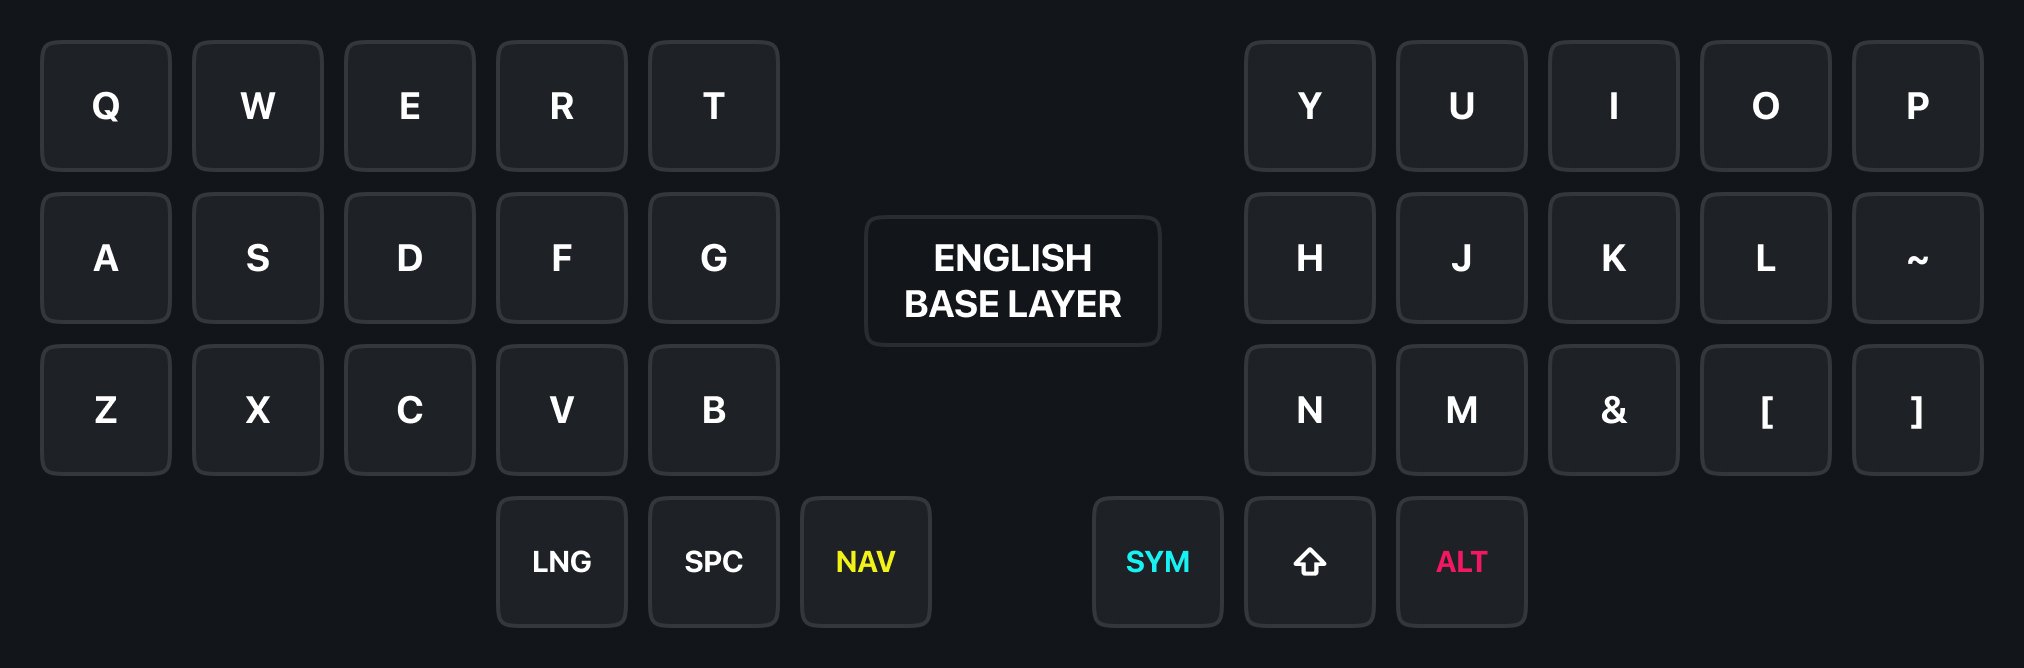
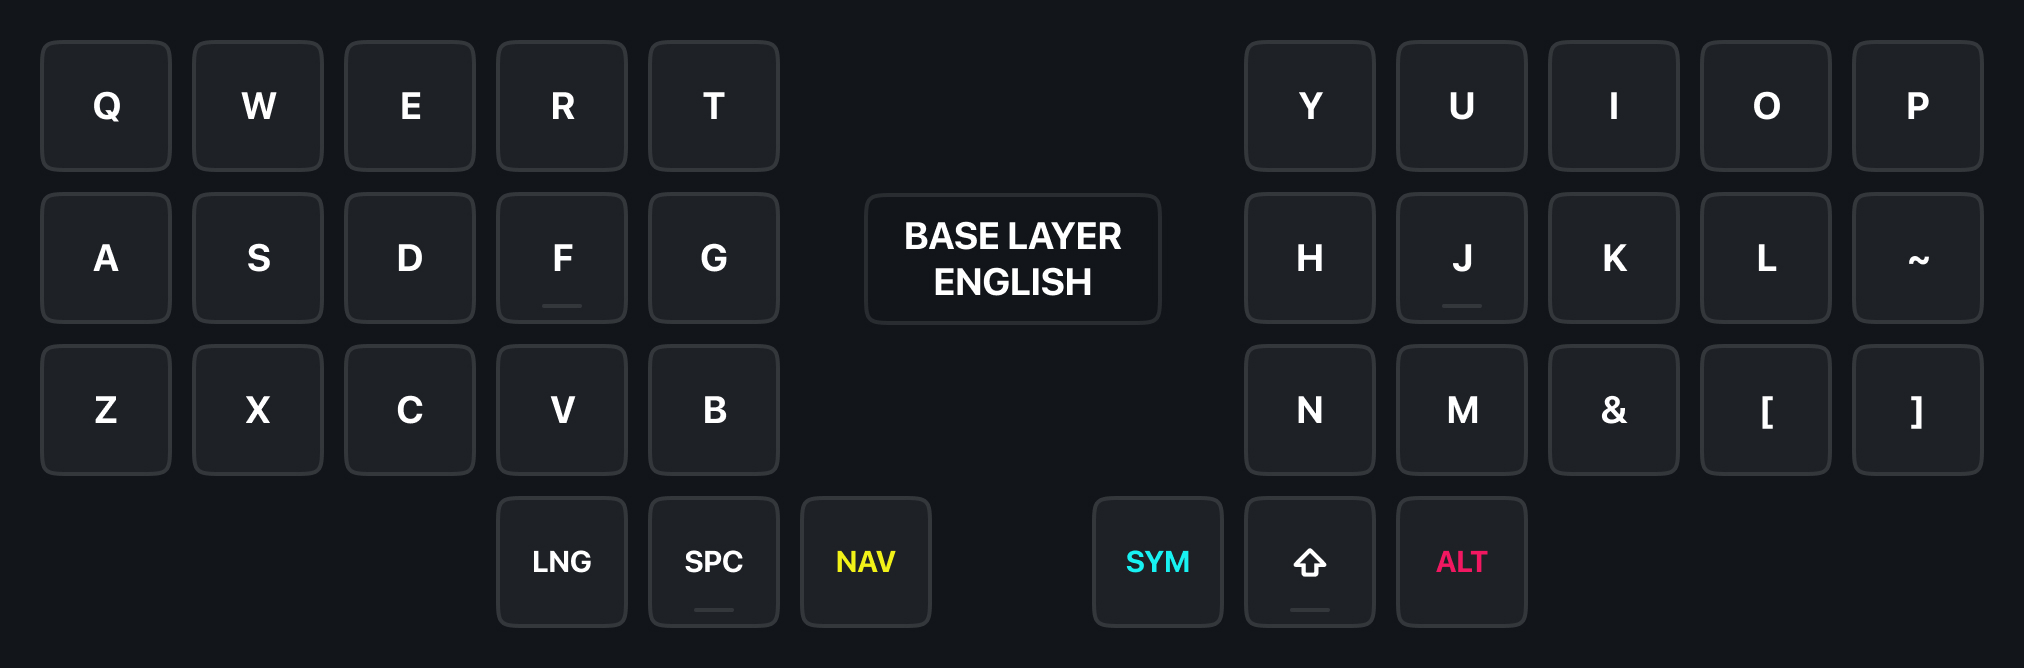
add layer desctiptions

diff --git a/README_RU.md b/README_RU.md
@@ -6,12 +6,32 @@
 
 ![wellum-layer-base-russian](./images/layers/wellum-base-layer-russian.jpg)
 
+## Содержание
+
+- [О прошивке](#о-раскладке)
+- [Термины](#термины)
+- [Клавиатурные слои](#клавиатурные-слои)
+  - [Базовый слой](#базовый-слой)
+  - [Символы](#символы)
+  - [Навигация](#навигация)
+  - [Цифры и F-клавиши](#цифры-и-f-клавиши)
+  - [Специальные символы](#специальные-символы)
+- Дополнительно
+  - [Как работают One-shot Sticky Modifiers](#как-работают-one-shot-sticky-modifiers)
+  - [Как работает Swapper и Tabber](#как-работает-swapper-и-tabber)
+
+## О прошивке
+
+Прошивка/раскладка предназначена для использования с [Universal Layout](https://github.com/braindefender/universal-layout) — системной раскладкой для Windows, Linux и macOS. На странице проекта можно найти все необходимые инструкции по установке и модификации этой раскладки.
+
+Прошивка/раскладка основана на [callum](https://github.com/callum-oakley/qmk_firmware/tree/master/users/callum) и работает на [QMK](https://docs.qmk.fm/), предназначенном для проводных клавиатур. Версия для беспроводных клавиатур, работающих на [ZMK](https://zmk.dev/docs) находится в разработке.
+
 ## Термины
 
 - Модификатор: <kbd>Shift</kbd>, <kbd>Ctrl</kbd>, <kbd>Alt</kbd> или <kbd>Gui</kbd>
-- Клавиши слоя: <kbd>SYM</kbd> or <kbd>NAV</kbd>
+- Клавиши слоя: <kbd>SYM</kbd> или <kbd>NAV</kbd>
 
-## Подробности
+## Клавиатурные слои
 
 - Удерживайте <kbd>SYM</kbd> чтобы активировать слой символов.
 - Удерживайте <kbd>NAV</kbd> чтобы активировать слой навигации.
@@ -23,33 +43,68 @@
 ![wellum-layer-base-english](./images/layers/wellum-base-layer-english.jpg)
 ![wellum-layer-base-russian](./images/layers/wellum-base-layer-russian.jpg)
 
-> Не волнуйтесь! Буквы `Ё`, `Ъ` и `Щ` находятся в ALT слое.
+> Не волнуйтесь! Буквы `Ё`, `Ъ` и `Щ` находятся в [ALT слое](#специальные-символы).
 
-## Слои символов, навигации, цифр и спец. символов
+## Символы
 
 ![wellum-layer-sym](./images/layers/wellum-sym-layer.jpg)
+
+## Навигация
+
 ![wellum-layer-nav](./images/layers/wellum-nav-layer.jpg)
+
+На левой половинке расположены <kbd>Game Layer</kbd>, <kbd>Print Screen</kbd> и различные макросы:
+
+|                Клавиша | Макрос                                                                        |
+| ---------------------: | ----------------------------------------------------------------------------- |
+|      <kbd>SW TAB</kbd> | [Swapper](#как-работает-swapper-и-tabber) (для окон в Windows/Linux)          |
+|      <kbd>SW WIN</kbd> | [Tabber](#как-работает-swapper-и-tabber) (для вкладок в браузере и терминале) |
+|    <kbd>PREV TAB</kbd> | <kbd>Ctrl</kbd> + <kbd>Shift</kbd> + <kbd>Tab</kbd>                           |
+|    <kbd>NEXT TAB</kbd> | <kbd>Ctrl</kbd> + <kbd>Tab</kbd>                                              |
+|  <kbd>SPACE LEFT</kbd> | <kbd>Ctrl</kbd> + <kbd>Gui</kbd> + <kbd>Left</kbd>                            |
+| <kbd>SPACE RIGHT</kbd> | <kbd>Ctrl</kbd> + <kbd>Gui</kbd> + <kbd>Right</kbd>                           |
+
+На правой половинке расположены vim-подобные стрелочки, Home/End (сверху) и Page Up/Down (снизу).
+
+Клавиши <kbd>Escape</kbd>, <kbd>Enter</kbd> и <kbd>Tab</kbd> продублированы на обеих половинках, что удобно при в различных программах и редакторах, где только левая рука находится на клавиатуре, а правая держит мышь.
+
+## Цифры и F-клавиши
+
 ![wellum-layer-num](./images/layers/wellum-num-layer.jpg)
+
+## Специальные символы
+
 ![wellum-layer-alt](./images/layers/wellum-alt-layer.jpg)
 
-> В слой вынесены русские буквы, которые не влезли в 2×15 сетку, а также различные символы, многие из которых расположены мнемонически:
-> <br/> <br/> Ё = <kbd>Alt</kbd> + Е <br/>Ъ = <kbd>Alt</kbd> + Ь <br/>Щ = <kbd>Alt</kbd> + Ш <br/> ₽ = <kbd>Alt</kbd> + Р
+В слой вынесены русские буквы, которые не влезли в 2×15 сетку, а также различные символы, многие из которых расположены мнемонически:
 
-> На месте пробела расположен символ неразрывного пробела, который заставляет делать перенос текста только вместе с соседними от него словами.
+|       Символ | Способ ввода                  |
+| -----------: | ----------------------------- |
+| <kbd>Ё</kbd> | <kbd>Alt</kbd> + <kbd>Е</kbd> |
+| <kbd>Ъ</kbd> | <kbd>Alt</kbd> + <kbd>Ь</kbd> |
+| <kbd>Щ</kbd> | <kbd>Alt</kbd> + <kbd>Ш</kbd> |
+| <kbd>₽</kbd> | <kbd>Alt</kbd> + <kbd>Р</kbd> |
+
+На месте **пробела** расположен символ **неразрывного пробела**, который заставляет делать перенос текста только вместе с соседними от него словами.
+
+В ALT слое также доступны `<` `>` `«` `»` `[` `]` (доступные для обеих языков) и лигатура `=>`, удобная для разработчиков.
 
 ## Игровой слой
 
 ![wellum-layer-game](./images/layers/wellum-game-layer.jpg)
 ![wellum-layer-gfn](./images/layers/wellum-gfn-layer.jpg)
 
-> WASD смещён на одну колонку вправо, чтобы вместить <kbd>Tab</kbd>, <kbd>Shift</kbd> и <kbd>Ctrl</kbd> на почти привычных позициях. Для эргономичных клавиатур это также актуально из-за смещения клавиш по вертикали, где клавиша под средний палец находится выше всего.
+WASD смещён на одну колонку вправо, чтобы вместить <kbd>Tab</kbd>, <kbd>Shift</kbd> и <kbd>Ctrl</kbd> на почти привычных позициях. Для эргономичных клавиатур это также актуально из-за смещения клавиш по вертикали, где клавиша под средний палец находится выше всего.
 
-> Также, в слое с цифрами помещается два ряда цифр и часто используемые клавиши:
-> <br/> <br/> `G` → Grenade
-> <br/> `J` → Journal
-> <br/> `I` → Inventory
-> <br/> `M` → Map
-> <br/> `T` → Chat
+Также, в слое с цифрами помещается два ряда цифр и часто используемые в играх клавиши:
+
+|      Клавиша | Описание  |
+| -----------: | --------- |
+| <kbd>G</kbd> | Grenade   |
+| <kbd>J</kbd> | Journal   |
+| <kbd>I</kbd> | Inventory |
+| <kbd>M</kbd> | Map       |
+| <kbd>T</kbd> | Chat      |
 
 ## Как работают One-shot Sticky Modifiers.
 
@@ -84,5 +139,4 @@
 
 Таким образом, повторно нажимая W и Q можно переключаться по окнам в Windows, вкладкам в Веб-браузере или Терминале.
 
-// TODO: не реализовано
-Эти клавиши совместимы с модификатором <kbd>Shift</kbd>, что позволяет инвертировать направление переключения по окнам/вкладкам.
+> _TODO: не реализовано_ <br> Эти клавиши совместимы с модификатором <kbd>Shift</kbd>, что позволяет инвертировать направление переключения по окнам/вкладкам.

diff --git a/README.md b/README.md
@@ -4,12 +4,34 @@
 
 [Эта статья также доступна на 🇷🇺 Русском языке.](README_RU.md)
 
+![wellum-layer-base-russian](./images/layers/wellum-base-layer-russian.jpg)
+
+## Table of contents
+
+- [About firmware](#about-firmware)
+- [Terms](#terms)
+- [Keyboard layers](#keyboard-layers)
+  - [Base layer](#base-layer)
+  - [Symbols](#symbols)
+  - [Navigation](#navigation)
+  - [Numbers and F-keys](#numbers-and-f-keys)
+  - [Special symbols](#special-symbols)
+- Additional info
+  - [How One-shot Sticky Modifiers work](#how-one-shot-sticky-modifiers-work)
+  - [How Swapper and Tabber work](#how-swapper-and-tabber-work)
+
+## About firmware
+
+The firmware/layout is intended for use with [Universal Layout](https://github.com/braindefender/universal-layout) - a system-wide layout for Windows, Linux, and macOS. On the project page, you can find all the necessary instructions for installing and modifying this layout.
+
+The firmware/layout is based on [callum](https://github.com/callum-oakley/qmk_firmware/tree/master/users/callum) and works on [QMK](https://docs.qmk.fm/), which is designed for wired keyboards. A version for wireless keyboards that work on [ZMK](https://zmk.dev/docs) is currently under development.
+
 ## Terms
 
 - Modifiers: <kbd>Shift</kbd>, <kbd>Ctrl</kbd>, <kbd>Alt</kbd> or <kbd>Gui</kbd>
 - Layer keys: <kbd>SYM</kbd> or <kbd>NAV</kbd>
 
-## Details
+## Keyboard layers
 
 - Hold <kbd>SYM</kbd> to activate the symbols layer.
 - Hold <kbd>NAV</kbd> to activate the navigation layer.
@@ -21,19 +43,68 @@
 ![wellum-layer-base-english](./images/layers/wellum-base-layer-english.jpg)
 ![wellum-layer-base-russian](./images/layers/wellum-base-layer-russian.jpg)
 
-> Don't worry! Letters <kbd>Ё</kbd>, <kbd>Ъ</kbd> and <kbd>Щ</kbd> are placed on ALT layer.
+> Don't worry! Letters <kbd>Ё</kbd>, <kbd>Ъ</kbd> and <kbd>Щ</kbd> are placed on [ALT layer](#special-symbols).
 
-## Symbols, navigation, numbers and special symbols layers
+## Symbols
 
 ![wellum-layer-sym](./images/layers/wellum-sym-layer.jpg)
+
+## Navigation
+
 ![wellum-layer-nav](./images/layers/wellum-nav-layer.jpg)
+
+On the left half, there are the <kbd>Game Layer</kbd>, <kbd>Print Screen</kbd>, and various macros:
+
+|                    Key | Macro                                                                     |
+| ---------------------: | ------------------------------------------------------------------------- |
+|      <kbd>SW TAB</kbd> | [Swapper](#how-swapper-and-tabber-work) (for windows in Windows/Linux)    |
+|      <kbd>SW WIN</kbd> | [Tabber](#how-swapper-and-tabber-work) (for tabs in browser and terminal) |
+|    <kbd>PREV TAB</kbd> | <kbd>Ctrl</kbd> + <kbd>Shift</kbd> + <kbd>Tab</kbd>                       |
+|    <kbd>NEXT TAB</kbd> | <kbd>Ctrl</kbd> + <kbd>Tab</kbd>                                          |
+|  <kbd>SPACE LEFT</kbd> | <kbd>Ctrl</kbd> + <kbd>Gui</kbd> + <kbd>Left</kbd>                        |
+| <kbd>SPACE RIGHT</kbd> | <kbd>Ctrl</kbd> + <kbd>Gui</kbd> + <kbd>Right</kbd>                       |
+
+On the right half, there are Vim-like arrow keys, Home/End (on top), and Page Up/Down (on the bottom).
+
+The <kbd>Escape</kbd>, <kbd>Enter</kbd> and <kbd>Tab</kbd> keys are duplicated on both halves, which is convenient for use in various software and editors where only the left hand is on the keyboard while the right hand holds the mouse.
+
+## Numbers and F-keys
+
 ![wellum-layer-num](./images/layers/wellum-num-layer.jpg)
+
+## Special symbols
+
 ![wellum-layer-alt](./images/layers/wellum-alt-layer.jpg)
+
+The Russian letters that did not fit into the 2x15 grid and various symbols, many of which are arranged mnemonically, are placed in a layer:
+
+|       Symbol | Input method                  |
+| -----------: | ----------------------------- |
+| <kbd>Ё</kbd> | <kbd>Alt</kbd> + <kbd>Е</kbd> |
+| <kbd>Ъ</kbd> | <kbd>Alt</kbd> + <kbd>Ь</kbd> |
+| <kbd>Щ</kbd> | <kbd>Alt</kbd> + <kbd>Ш</kbd> |
+| <kbd>₽</kbd> | <kbd>Alt</kbd> + <kbd>Р</kbd> |
+
+In place of the **space** is located the **non-breaking space** character, which prevents text from being divided between lines only at that point, and instead forces the entire group of adjacent words to move to the next line together.
+
+The ALT layer also includes `<` `>` `«` `»` `[` `]` (available for both languages) and the `=>` ligature, which is convenient for developers.
 
 ## Gaming layer
 
 ![wellum-layer-game](./images/layers/wellum-game-layer.jpg)
 ![wellum-layer-gfn](./images/layers/wellum-gfn-layer.jpg)
+
+WASD is shifted one column to the right to accommodate <kbd>Tab</kbd>, <kbd>Shift</kbd>, and <kbd>Ctrl</kbd> in almost familiar positions. This is also relevant for ergonomic keyboards due to the vertical offset of the keys, where the key under the middle finger is higher than the others.
+
+Additionally, the layer with numbers contains two rows of digits and frequently used gaming keys:
+
+|          Key | Description |
+| -----------: | ----------- |
+| <kbd>G</kbd> | Grenade     |
+| <kbd>J</kbd> | Journal     |
+| <kbd>I</kbd> | Inventory   |
+| <kbd>M</kbd> | Map         |
+| <kbd>T</kbd> | Chat        |
 
 ## How One-shot Sticky Modifiers work
 
@@ -67,5 +138,4 @@ Moreover, if you hold down the modifier keys but release the layer key, the modi
 The Swapper key <kbd>NAV+W</kbd> and the Tabber key <kbd>NAV+Q</kbd> are macros for <kbd>Alt+Tab</kbd> and <kbd>Ctrl+Tab</kbd>, respectively. When pressed, they leave the Alt or Ctrl modifiers held down.
 Thus, by pressing <kbd>W</kbd> and <kbd>Q</kbd> again, you can switch between windows in Windows, tabs in a Web Browser, or Terminal.
 
-// TODO: not implemented
-These keys are compatible with the <kbd>Shift</kbd> modifier, which allows you to reverse the direction of window/tab switching.
+> _TODO: not implemented_ <br> These keys are compatible with the <kbd>Shift</kbd> modifier, which allows you to reverse the direction of window/tab switching.
